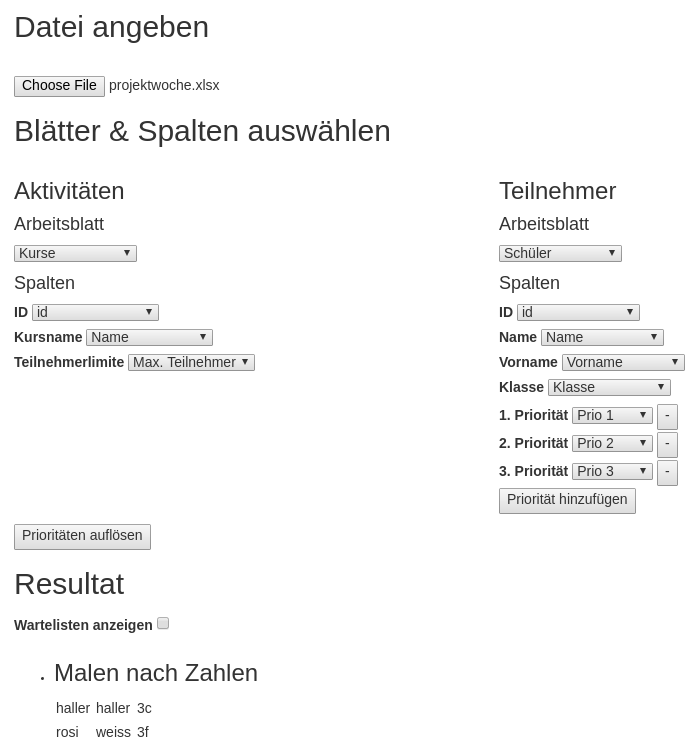
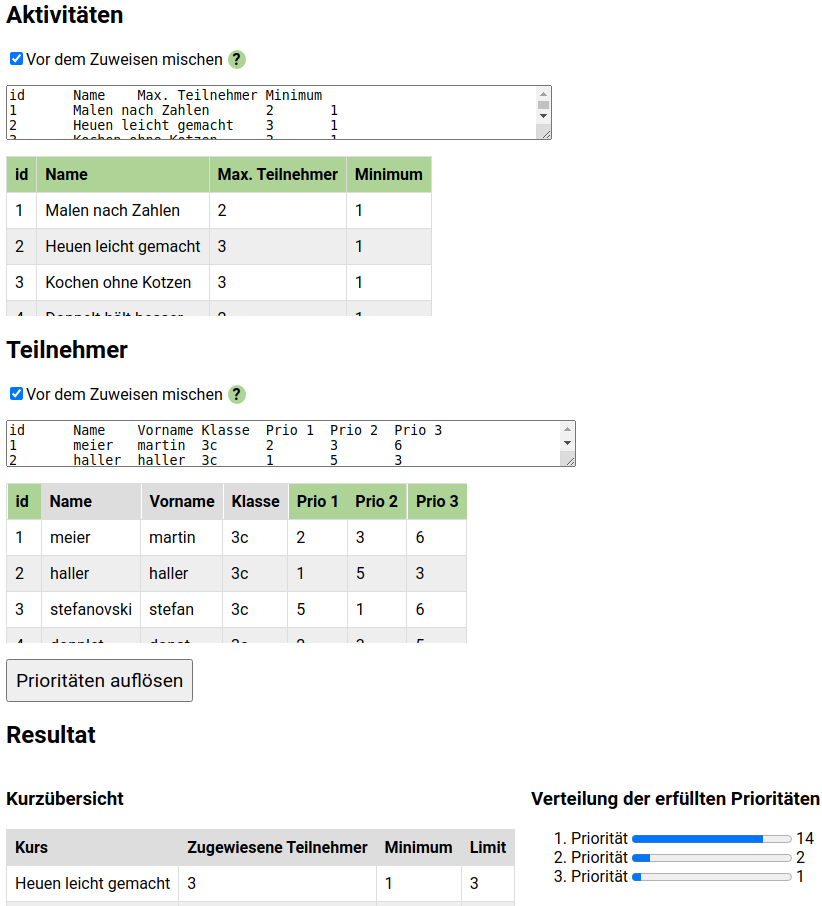
update readme. [skip ci]

diff --git a/README.md b/README.md
@@ -1,54 +1,45 @@
-# activity-matcher
-## What does it do?!
-It is a common scenario in schools, companies etc to have an event/project week etc where 
-people can take part in various activities. The number of people that can take part in an activity is (usually) limited.
-So organizers get the people to let them know their priorities/preferences regarding the activities they want to participate in.
-Then, in the worst case, somebody manually matches activities and participants according to their preferences. 
-
-That last step is where activity-matcher comes in: 
-
-Given that you feed it an Excel file containing two worksheets (activites and participants, details see below) it takes care of 
-matching participants and activities and shows you the result. 
+# Zuweiser
 
 ## Screenshot
+
 <a href="doc/demo.png">
     <img src="doc/demo.png" alt="Demo screenshot" style="width: 300px;"/>
 </a>
 
-## Prerequisites, i.e. how does the Excel file look like?
+## What does it do?!
 
-activity-matcher expects an Excel file containing two worksheets:
+Schools, companies etc often organize events where people can take part in various activities. The number participants
+per activity is usually limited. Therefore organizers get people specify their priorities regarding the activities they
+want to participate in. Then participants must be assigned to their activities according to their priorities.
 
-*NOTE: naming of worksheets and columns is not important*
+Zuweiser takes care of that last step.
 
-Activities, with the following columns:
-- ID
-- Name
+## Format
+
+Zuweiser consumes tab-spaced text as produced by Excel and Libre-Office when copying the contents of a worksheet
+with `Ctrl+A` `Ctrl+C`
+
+Activities must contain the following columns
+
+- ID (letters or numbers)
+- Title
 - Maximum number of participants
+- Minimum number of participants
 
-Participants, with the following columns:
-- ID
-- Name 
-- Firstname
-- Class (for now, at least)
-- n priorities (referring to activities using their ID)
+Participants must contain the following columns:
 
-## Build and run it yourself
-In order to run it locally run
+- ID (letters or numbers)
+- N columns of priorities, referring to activities using their ID
+
+Additional columns in the participant's data will be included in the result.
+
+## Run locally
+
 ```
 yarn
-```
-and then either
-```
-yarn run dev-server
-```
-or if you are running docker:
-```
-sh build.sh && sh deploy.sh
+yarn dev
 ```
 
 ## Built with
-- [js-xlsx](https://github.com/SheetJS/js-xlsx)
-- [vue.js](https://github.com/vuejs/vue)
-- [webpack](https://github.com/webpack/webpack)
-- [babel](https://github.com/babel/babel)
+
+[Next.js](https://nextjs.org/blog)
